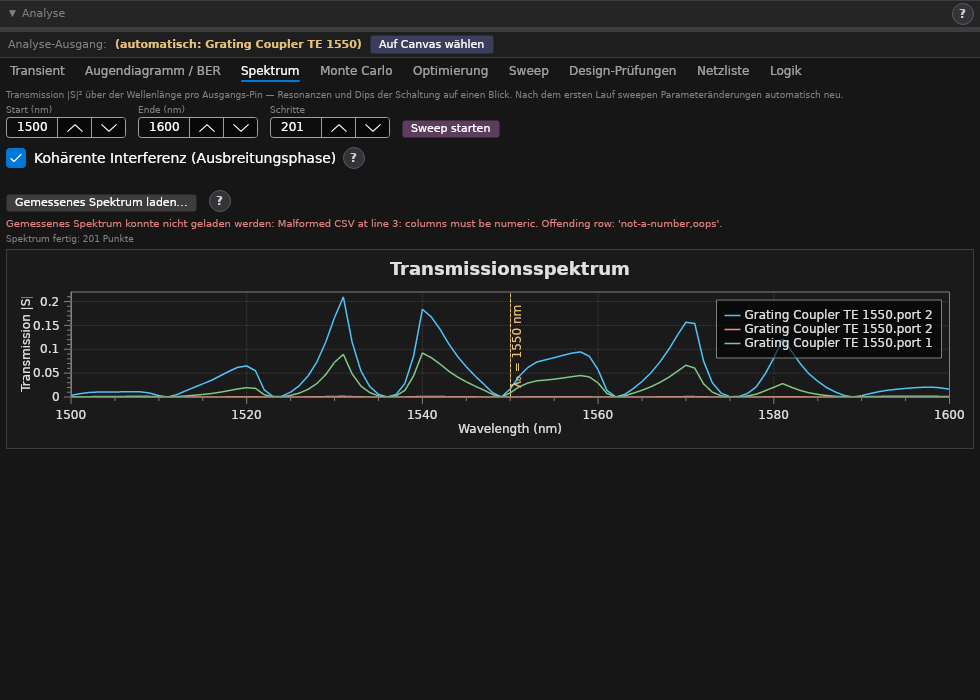
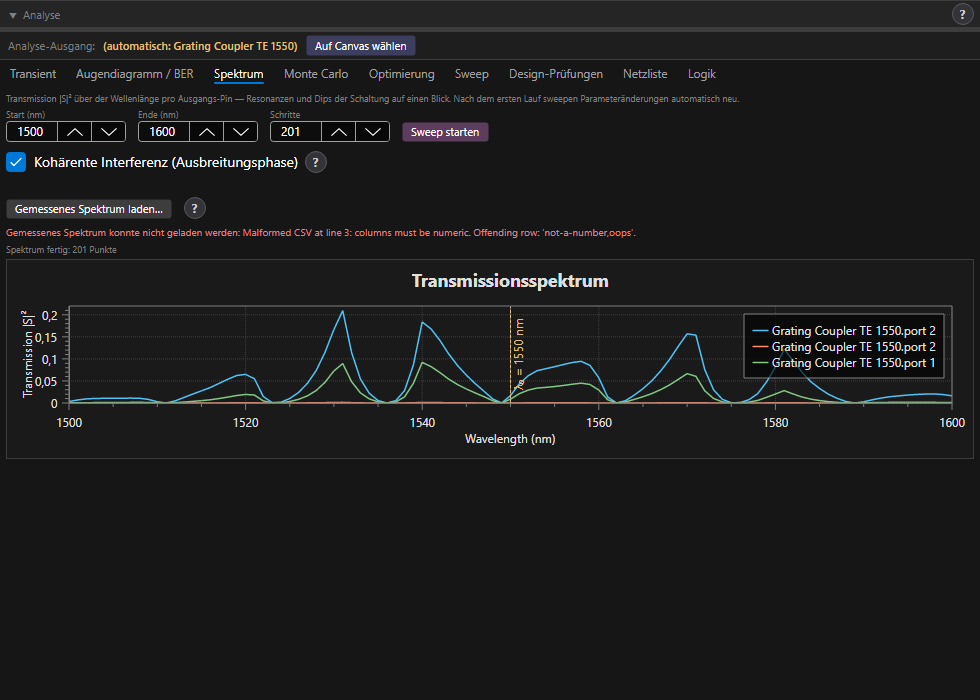
fix(spectrum): transmission axis grows to fit the measured overlay
The y-axis was scaled to the simulated curves only, so a measured trace
above them (fibre-normalised lab data) was clipped at the top. The legend
test now compares against the localized label so it passes on de locales.
Screenshots re-baked.

Changed region(s): [[0.0, 0.03, 0.9796, 0.66], [0.0, 0.0, 0.0612, 0.03]]

diff --git a/CAP.Avalonia/ViewModels/Analysis/WavelengthSpectrum/WavelengthSpectrumPlotBuilder.cs b/CAP.Avalonia/ViewModels/Analysis/WavelengthSpectrum/WavelengthSpectrumPlotBuilder.cs
@@ -96,6 +96,19 @@ internal static class WavelengthSpectrumPlotBuilder
         for (int i = 0; i < measured.WavelengthNm.Count; i++)
             series.Points.Add(new DataPoint(measured.WavelengthNm[i], measured.PowerLinear[i]));
         model.Series.Add(series);
+        ExtendTransmissionAxisToFit(model, measured);
+    }
+
+    // A lab trace usually sits above the simulated curves (e.g. fibre-normalised),
+    // so the axis must grow with it or the overlay is clipped at the top.
+    private static void ExtendTransmissionAxisToFit(PlotModel model, MeasuredSpectrum measured)
+    {
+        var yAxis = (LinearAxis)model.Axes.First(a => a.Position == AxisPosition.Left);
+        if (double.IsNaN(yAxis.Maximum) || measured.PowerLinear.Count == 0) return;
+        double measuredMax = measured.PowerLinear.Max() * (1 + SpectrumAxisScaler.TransmissionPaddingFraction);
+        if (measuredMax <= yAxis.Maximum) return;
+        yAxis.Maximum = measuredMax;
+        yAxis.MajorStep = SpectrumAxisScaler.NiceTickStep(0, measuredMax);
     }
 
     /// <summary>Creates an empty, dark-themed spectrum plot model with labelled axes and legend.</summary>

diff --git a/UnitTests/Analysis/WavelengthSpectrum/WavelengthSpectrumPlotBuilderTests.cs b/UnitTests/Analysis/WavelengthSpectrum/WavelengthSpectrumPlotBuilderTests.cs
@@ -137,9 +137,23 @@ public class WavelengthSpectrumPlotBuilderTests
 
         model.Series.Count.ShouldBe(2);
         var measuredSeries = model.Series.Cast<LineSeries>().Last();
-        measuredSeries.Title.ShouldBe("Measured");
+        measuredSeries.Title.ShouldBe(
+            CAP.Avalonia.Services.Localization.LocalizationService.Instance.Translate("Analysis.Spectrum.Measured.LegendLabel"));
         measuredSeries.LineStyle.ShouldBe(LineStyle.Dash);
         measuredSeries.Points.Count.ShouldBe(3);
+    }
+
+    [Fact]
+    public void BuildPlotModel_MeasuredAboveSimulated_TransmissionAxisFitsMeasuredPeak()
+    {
+        var measured = new CAP_Core.Analysis.MeasuredSpectrum.MeasuredSpectrum(
+            new double[] { 1500, 1550, 1600 }, new[] { 0.4, 5.0, 0.4 }, "lab.csv");
+
+        var model = WavelengthSpectrumPlotBuilder.BuildPlotModel(
+            new[] { CreateCurve() }, _ => null, DesignWavelengthNm, measured);
+
+        var yAxis = (LinearAxis)model.Axes.First(a => a.Position == AxisPosition.Left);
+        yAxis.Maximum.ShouldBeGreaterThanOrEqualTo(5.0);
     }
 
     [Fact]
